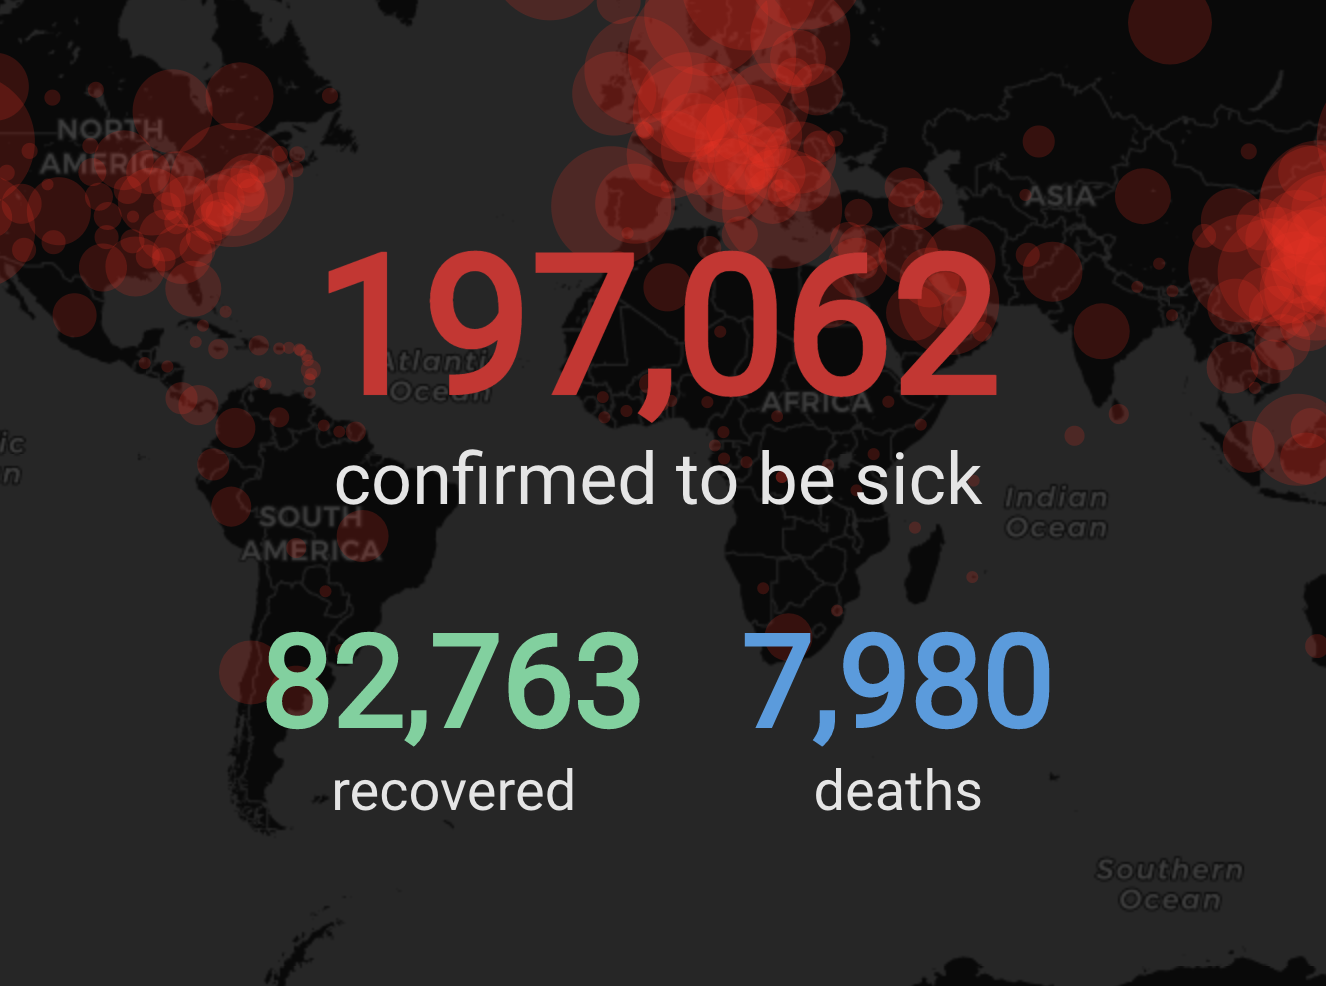
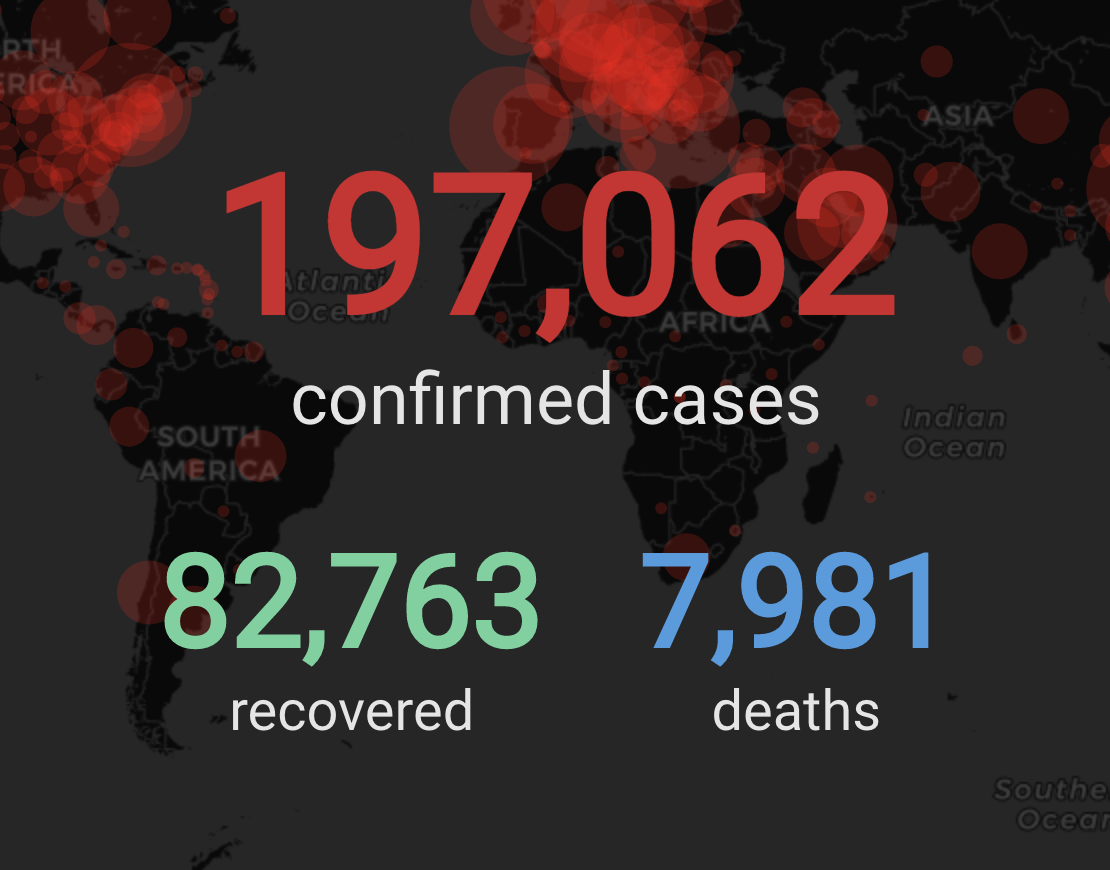
copy

diff --git a/src/App.js b/src/App.js
@@ -57,7 +57,7 @@ function App() {
       <Content>
         <Stat
           number={total} //data ? data.cases : 198178}
-          label="confirmed to be sick"
+          label="confirmed cases"
           color="red"
         />
         <Row>
